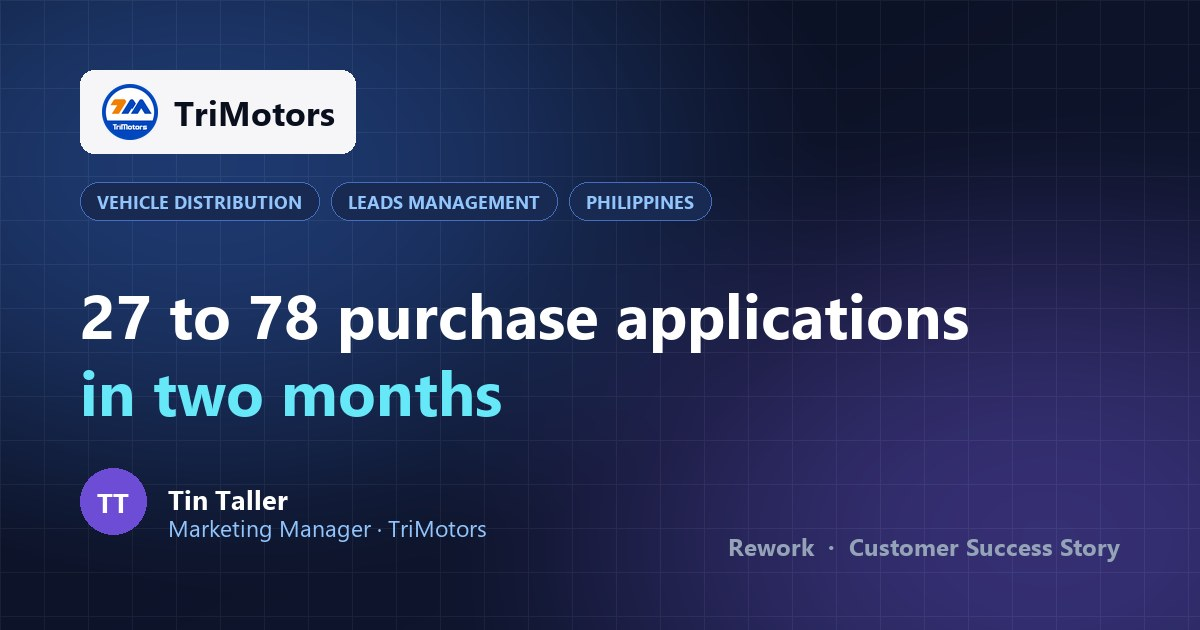
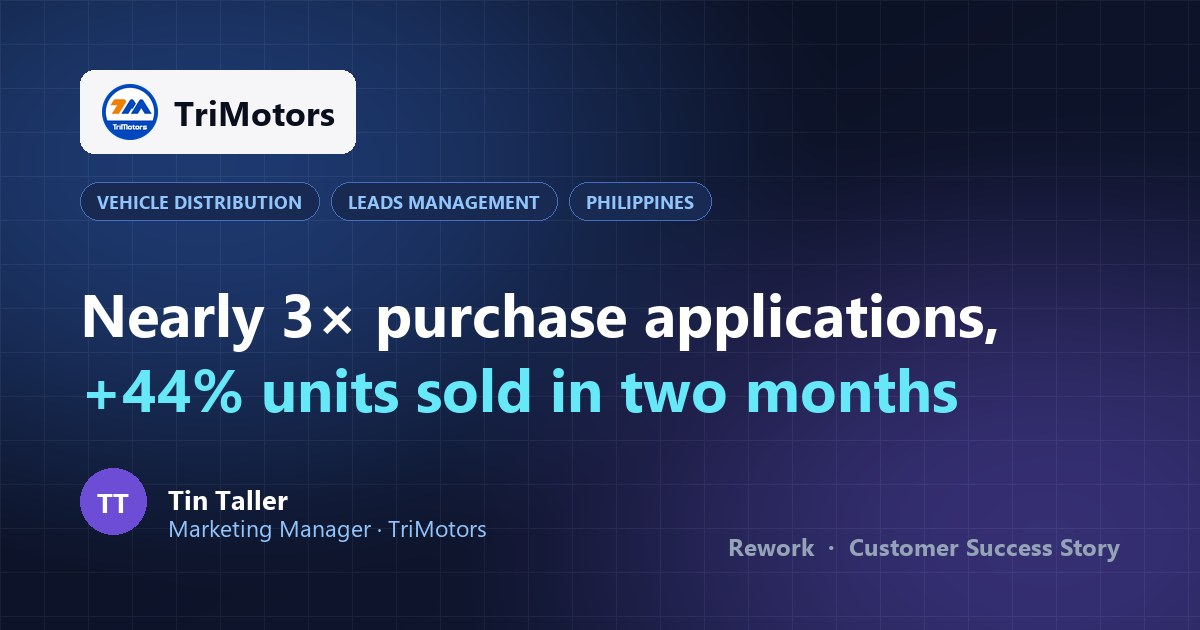
Lead the TriMotors story with ratios, not raw counts
The absolute figures are small enough that "27 to 78" undersells the
result. Headline is now "Nearly 3x purchase applications, +44% units
sold", with the +44% carrying the accent. Same change applied to the
first metric (~3x, with "up 189%" in the label), the page title, the
OG/Twitter meta, the OG card and the hub card.

"Nearly 3x" rather than "3x": 27 -> 78 is 2.89x. Rounding up to a
flat 3x would overstate it, and the label prints the exact +189% so
the claim checks out.

The quote gets the percentage as a bracketed substitution -- "Our
actual sales also scaled up - [up 44%]" - because Tin said "9 in May,
13 in July", not "44%". Brackets are the normal convention for
editorial substitution and keep the attribution honest now that the
underlying counts are withheld.

Changed region(s): [[0.0617, 0.4524, 0.8325, 0.6635]]

diff --git a/testimonials/stories/trimotors/index.html b/testimonials/stories/trimotors/index.html
@@ -4,14 +4,14 @@
 <meta charset="UTF-8">
 <meta name="viewport" content="width=device-width, initial-scale=1.0">
 <title>TriMotors — Customer Success Story · Rework</title>
-<meta name="description" content="How TriMotors took its leads team from manual spreadsheet transfers to a real-time funnel — purchase applications up from 27 in May to 78 in July, with units sold up 44%.">
+<meta name="description" content="How TriMotors took its leads team from manual spreadsheet transfers to a real-time funnel — purchase applications up 189% and units sold up 44% in two months.">
 
 <!-- Open Graph -->
 <meta property="og:type" content="article">
 <meta property="og:site_name" content="Rework">
 <meta property="og:url" content="https://success.rework.com/testimonials/stories/trimotors/">
-<meta property="og:title" content="TriMotors — 27 to 78 purchase applications in two months">
-<meta property="og:description" content="How TriMotors took its leads team from manual spreadsheet transfers to a real-time funnel — purchase applications up from 27 in May to 78 in July, with units sold up 44%.">
+<meta property="og:title" content="TriMotors — Nearly 3× purchase applications, +44% units sold">
+<meta property="og:description" content="How TriMotors took its leads team from manual spreadsheet transfers to a real-time funnel — purchase applications up 189% and units sold up 44% in two months.">
 <meta property="og:image" content="https://success.rework.com/testimonials/stories/trimotors/og.jpg">
 <meta property="og:image:secure_url" content="https://success.rework.com/testimonials/stories/trimotors/og.jpg">
 <meta property="og:image:type" content="image/jpeg">
@@ -21,8 +21,8 @@
 
 <!-- Twitter -->
 <meta name="twitter:card" content="summary_large_image">
-<meta name="twitter:title" content="TriMotors — 27 to 78 purchase applications in two months">
-<meta name="twitter:description" content="How TriMotors took its leads team from manual spreadsheet transfers to a real-time funnel — purchase applications up from 27 in May to 78 in July, with units sold up 44%.">
+<meta name="twitter:title" content="TriMotors — Nearly 3× purchase applications, +44% units sold">
+<meta name="twitter:description" content="How TriMotors took its leads team from manual spreadsheet transfers to a real-time funnel — purchase applications up 189% and units sold up 44% in two months.">
 <meta name="twitter:image" content="https://success.rework.com/testimonials/stories/trimotors/og.jpg">
 <link href="https://fonts.googleapis.com/css2?family=DM+Sans:wght@400;500;600;700&family=Plus+Jakarta+Sans:wght@700;800&display=swap" rel="stylesheet">
 <style>
@@ -210,8 +210,8 @@ footer a{color:var(--g300);text-decoration:none}
         <span class="tag">Leads Management</span>
         <span class="tag">Philippines</span>
       </div>
-      <h1>27 to 78 purchase applications in <span class="accent">two months</span></h1>
-      <p class="hero-sub">TriMotors is the exclusive distributor of Bajaj 3-wheelers in the Philippines. Here's how its leads team moved off manual spreadsheet transfers onto a real-time funnel — nearly tripling the purchase applications it hands over to dealers each month.</p>
+      <h1>Nearly 3× purchase applications, <span class="accent">+44% units sold</span></h1>
+      <p class="hero-sub">TriMotors is the exclusive distributor of Bajaj 3-wheelers in the Philippines. Two months after go-live on Rework, its leads team had nearly tripled the purchase applications it hands over to dealers — and lifted units sold by 44%.</p>
       <div class="speaker">
         <div class="sp-avatar"><!-- <img src="tin.jpg" alt="Tin Taller"> -->TT</div>
         <div class="sp-meta">
@@ -234,7 +234,7 @@ footer a{color:var(--g300);text-decoration:none}
 <!-- METRICS -->
 <section class="metrics">
   <div class="metrics-grid">
-    <div class="metric"><div class="metric-v">27 → 78</div><div class="metric-l">Purchase applications per month, May to July — nearly 3×</div></div>
+    <div class="metric"><div class="metric-v">~3×</div><div class="metric-l">Purchase applications per month, May to July — up 189%</div></div>
     <div class="metric"><div class="metric-v">+44%</div><div class="metric-l">Units sold per month, over the same May-to-July window</div></div>
     <div class="metric"><div class="metric-v">2 months</div><div class="metric-l">From an unfamiliar interface to live and scaling</div></div>
   </div>
@@ -247,7 +247,7 @@ footer a{color:var(--g300);text-decoration:none}
     <div class="qm">"</div>
     <div class="q-viewport">
       <div class="q-track" id="qTrack">
-        <p class="q-slide">We did 27 applications in May. In July, we scaled up to 78. Our actual sales also scaled up.</p>
+        <p class="q-slide">We did 27 applications in May. In July, we scaled up to 78. Our actual sales also scaled up — [up 44%].</p>
         <p class="q-slide">Initially it was a bit tough for the team, because we really weren't familiar with the interface. But with the help of Rework's customer success, it became smooth.</p>
         <p class="q-slide">My favourite is the real-time reporting, plus the leads funnel — we can actually see and go back to the customers we can convert along the way.</p>
       </div>

diff --git a/testimonials/index.html b/testimonials/index.html
@@ -560,7 +560,7 @@ window.CUSTOMER_VIDEOS = [
   {
     thumbnail: '/testimonials/stories/trimotors/card.jpg',
     badge: 'Customer story',
-    title: '27 to 78 purchase applications in two months',
+    title: 'Nearly 3× purchase applications, +44% units sold',
     meta: 'Tin Taller · Marketing Manager · TriMotors',
     href: '/testimonials/stories/trimotors/'
   }
